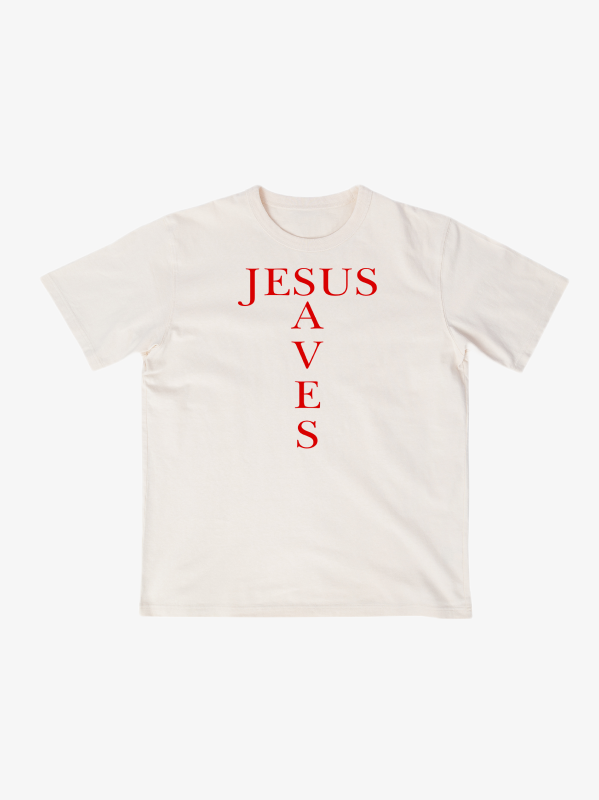
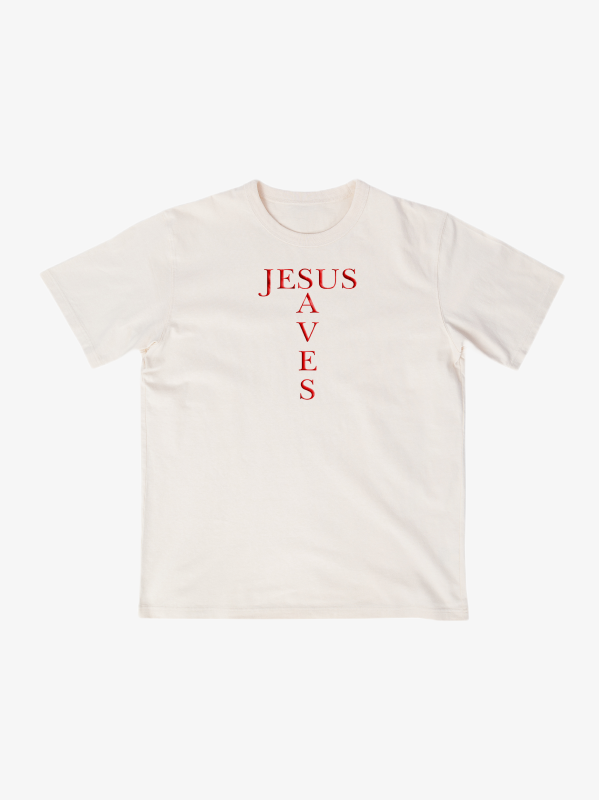
close

diff --git a/index.html b/index.html
@@ -65,16 +65,16 @@
         </div>
         <!-- Card 5 -->
         <div class="card" onmouseover="showImage(this)" onmouseout="hideImage(this)">
-            <img src="./assets/image 3.png" alt="Image 1" class="initial-image">
-            <img src="./assets/image 4.png" alt="Image 2" class="hover-image">
+            <img src="./assets/SHORTS/Short 1 Front.png" alt="Short Negro JESUSAVES" class="initial-image">
+            <img src="./assets/SHORTS/Short 1 Back.png" alt="Short Negro JESUSAVES" class="hover-image">
             <h2 class="h-card">JESUSAVES NOTHING NEW</h2>
             <h3 class="h3-card">The Moment Tee</h3>
             <p class="price-card">$ 12.000 ARS</p>
         </div>
         <!-- Card 6 -->
         <div class="card" onmouseover="showImage(this)" onmouseout="hideImage(this)">
-            <img src="./assets/image 3.png" alt="Image 1" class="initial-image">
-            <img src="./assets/image 4.png" alt="Image 2" class="hover-image">
+            <img src="./assets/SHORTS/Short 2 Front.png" alt="Short Blanco JESUSAVES" class="initial-image">
+            <img src="./assets/SHORTS/Short 2 Back.png" alt="Short Blanco JESUSAVES" class="hover-image">
             <h2 class="h-card">JESUSAVES NOTHING NEW</h2>
             <h3 class="h3-card">The Moment Tee</h3>
             <p class="price-card">$ 12.000 ARS</p>
